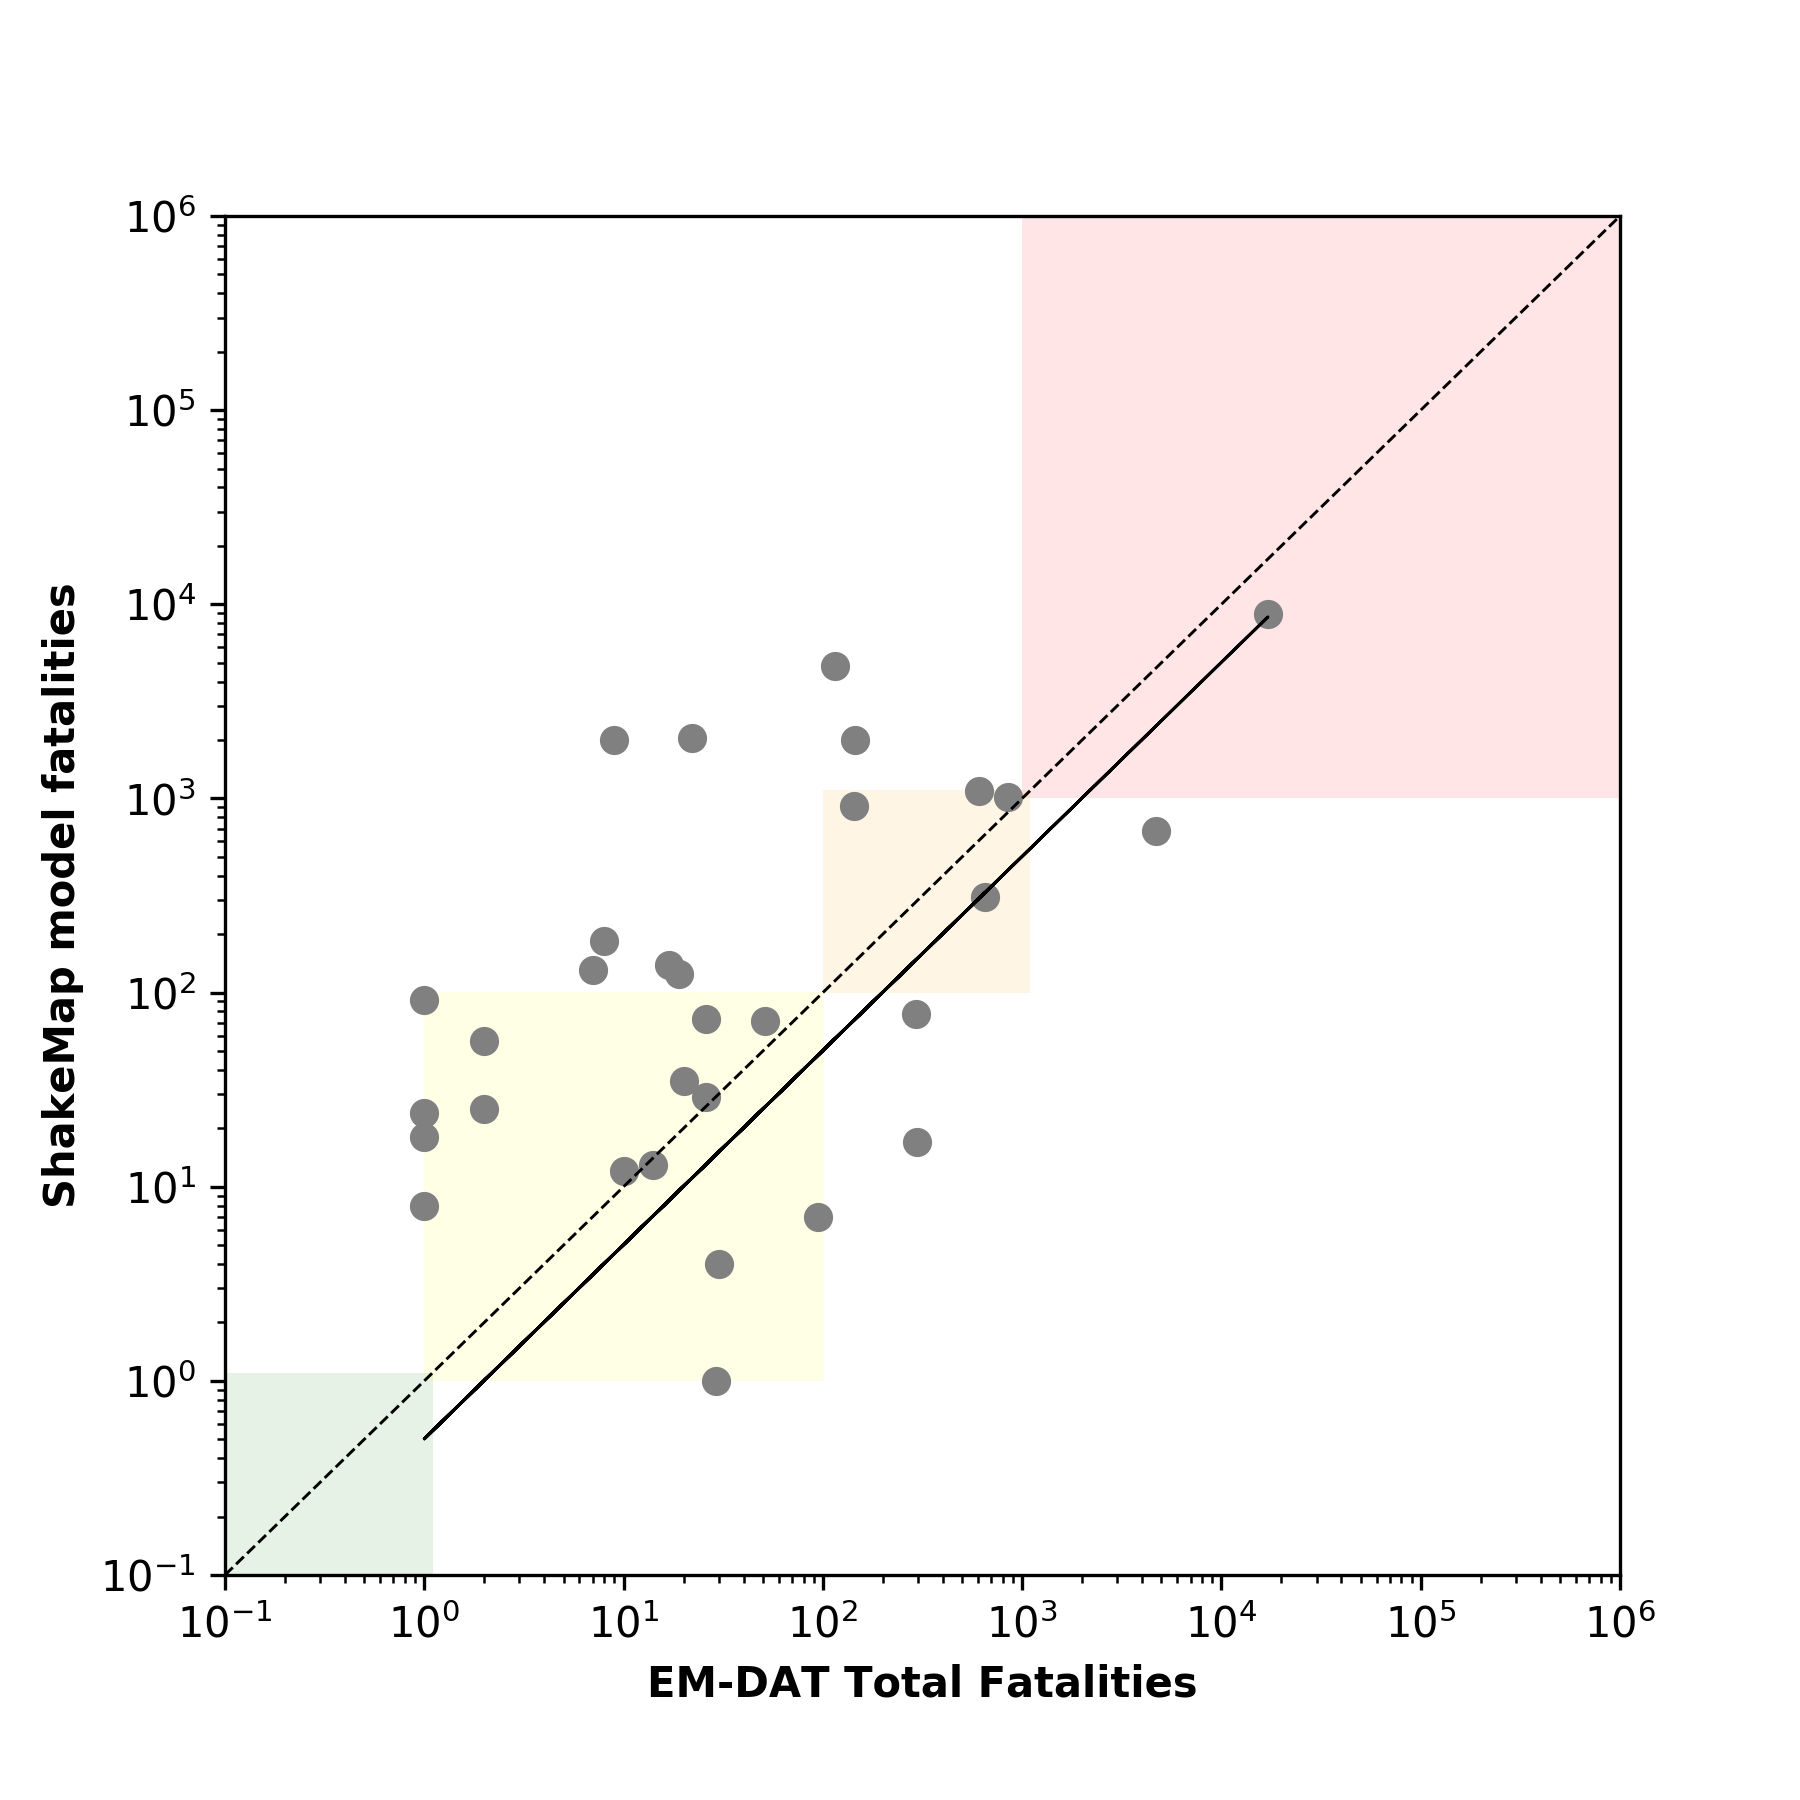
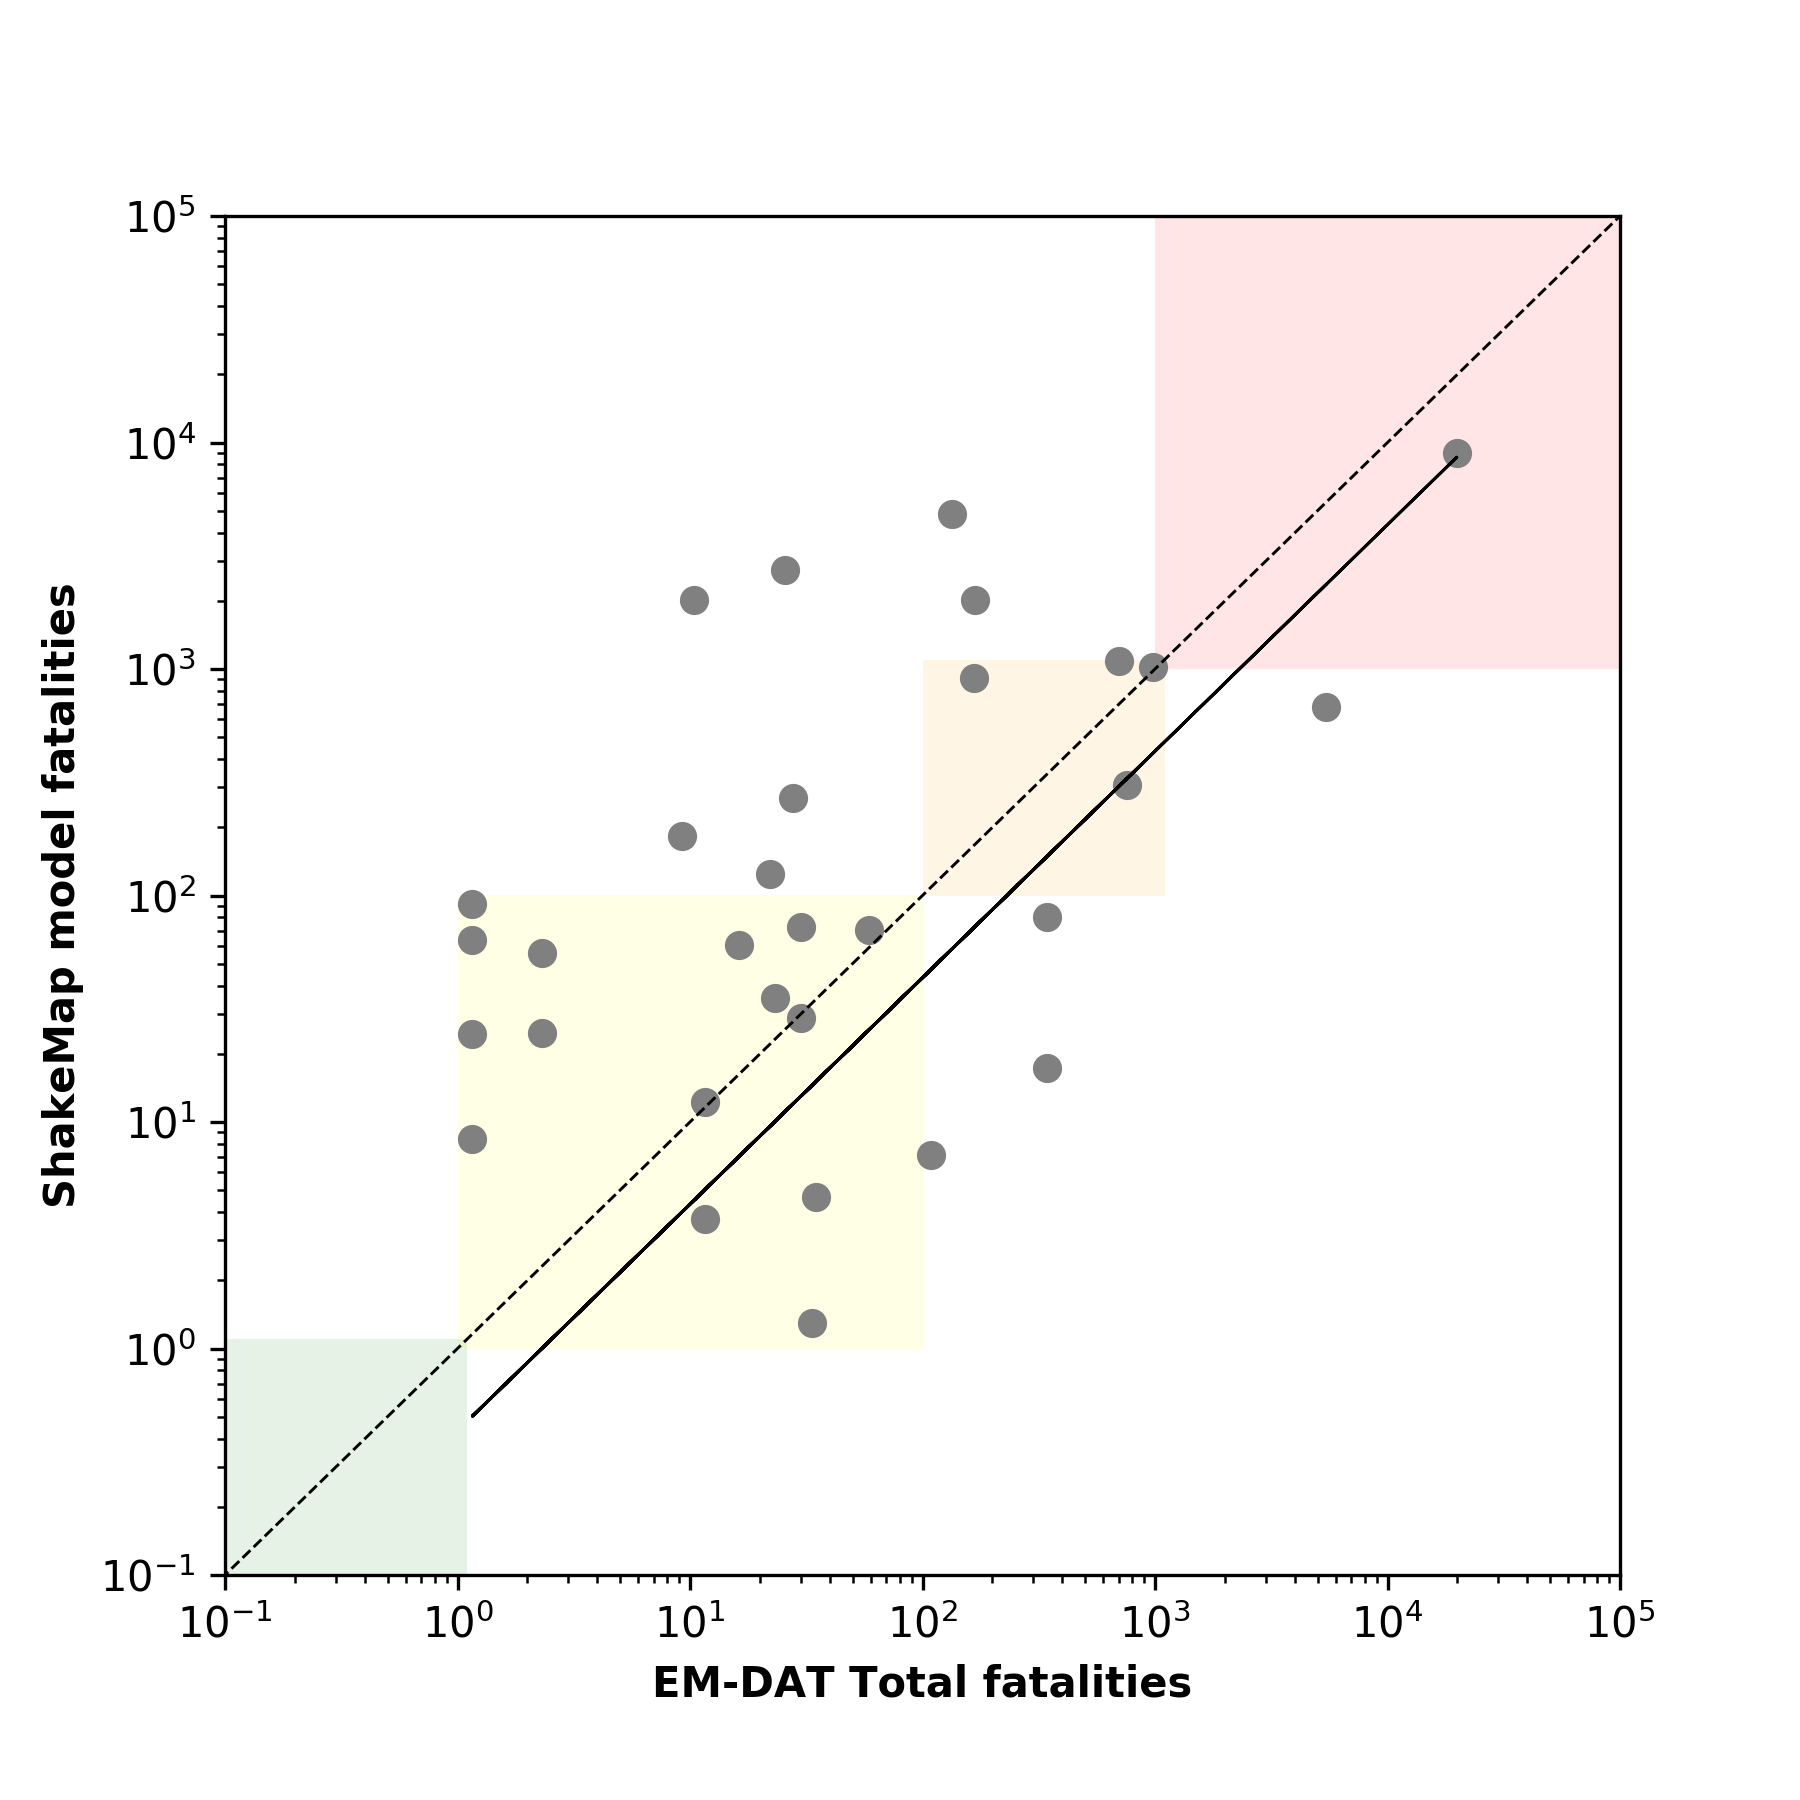
pdate emdat maps (bug fixed), remove noaa maps (bug not fixed)

diff --git a/loss_data/selected_damaging_events/README.md b/loss_data/selected_damaging_events/README.md
@@ -4,13 +4,6 @@ The file `losses_selected_damaging_events.xlsx` includes both reported (from NCE
 
 Some plots comparing the reported and mean predicted losses are also provided. These plots also show the [USGS PAGER](https://earthquake.usgs.gov/data/pager/) alert levels (see Wald et al., 2022).   
 
-## Comparison plots: NCEI/WDS Global Significant Earthquake Database
-
-<img src="./noaa_vs_model_eco-loss_rupture.png" alt="noaa_rupture_ecoloss" width="400" >
-<img src="./noaa_vs_model_eco-loss_ShakeMap.png" alt="noaa_ShakeMap_ecoloss" width="400" >
-<img src="./noaa_vs_model_fatality_rupture.png" alt="noaa_rupture_fatality" width="400" >
-<img src="./noaa_vs_model_fatality_ShakeMap.png" alt="noaa_ShakeMap_fatality" width="400" >
-
 ## Comparison plots: EMDAT
 
 <img src="./EMDAT_vs_model_eco-loss_rupture.png" alt="EMDAT_rupture_ecoloss" width="400" >
